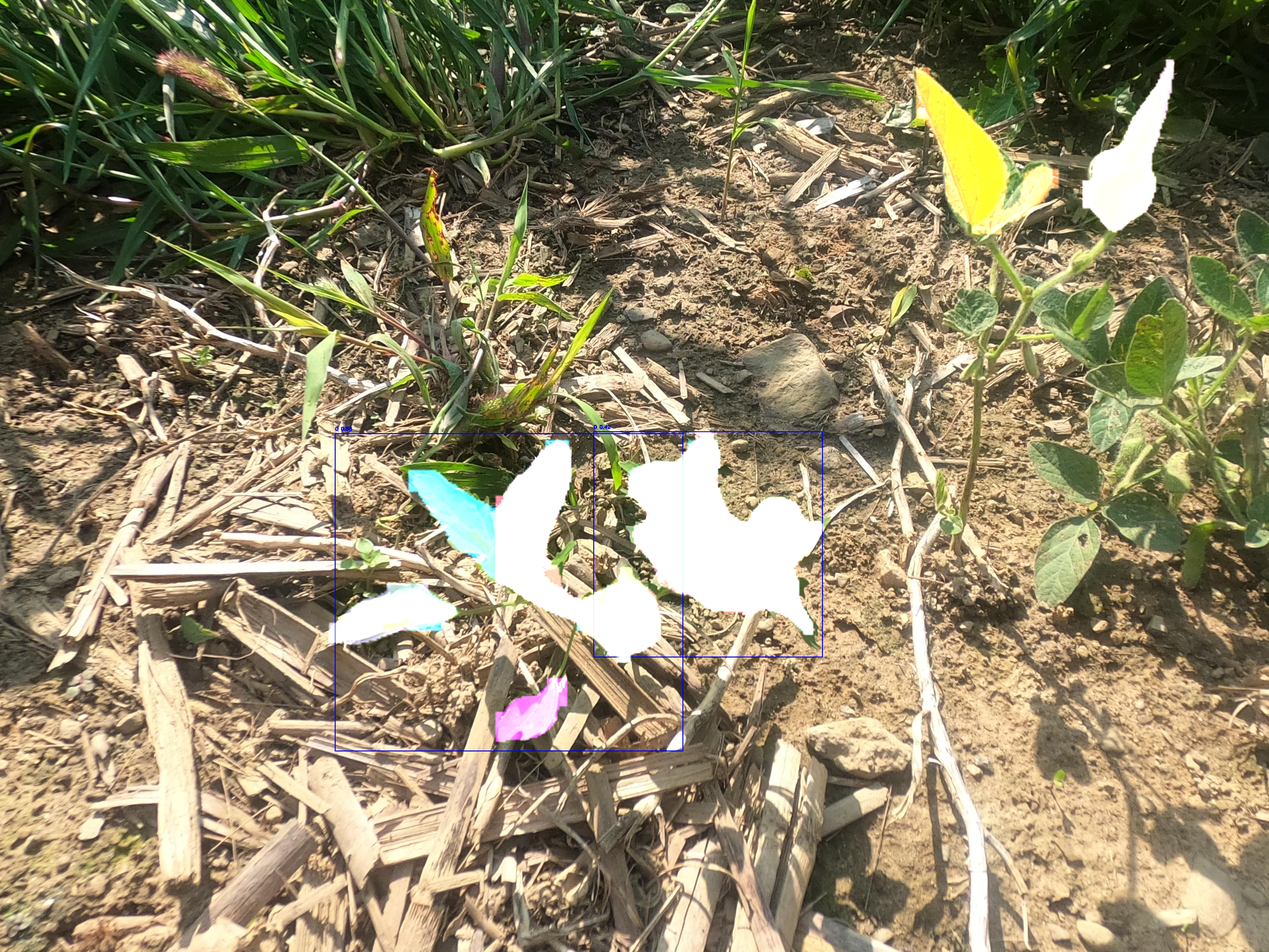
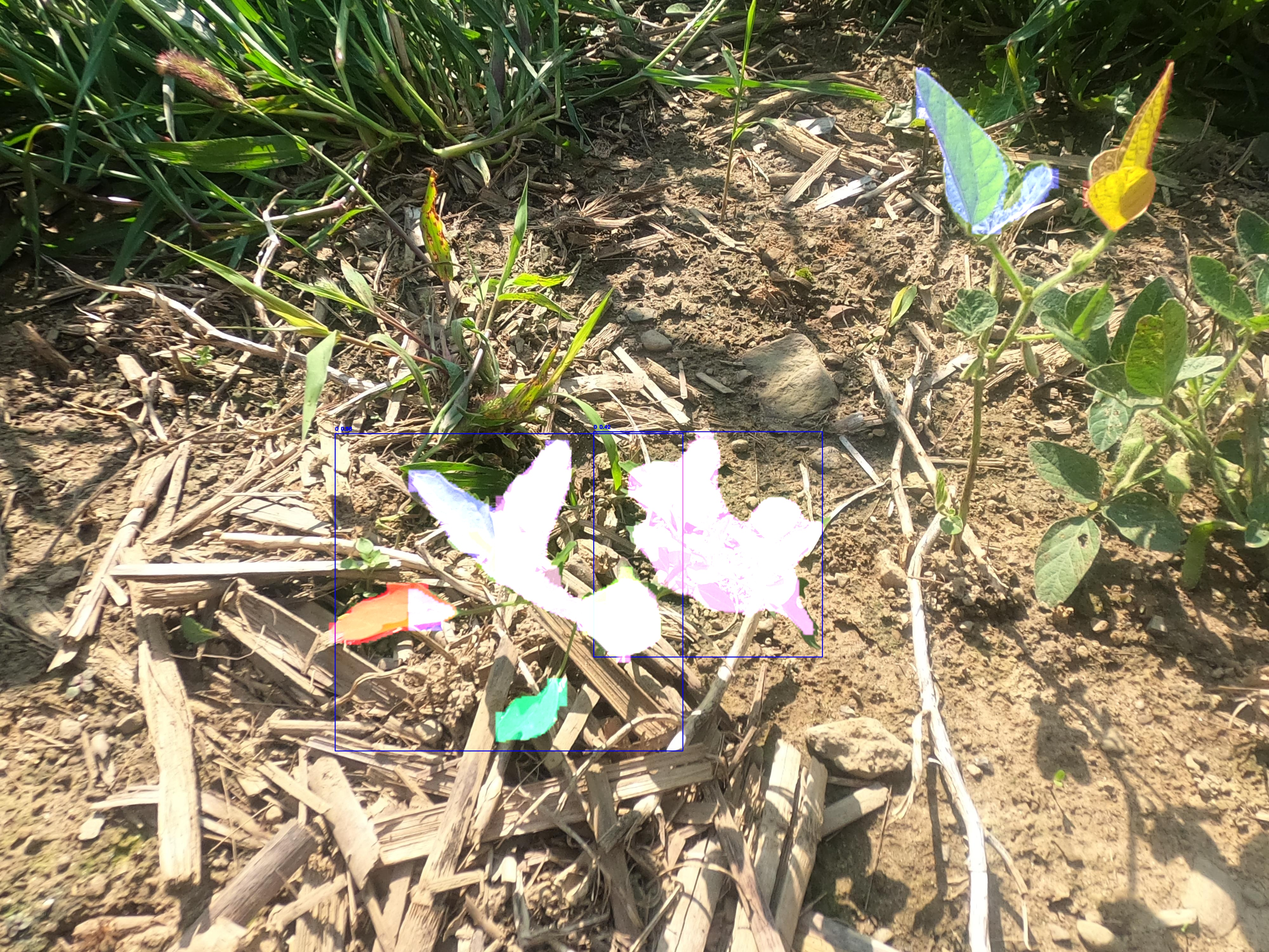
fix: fit canvas

diff --git a/client-gui/src/app/_components/canvas/utils.tsx b/client-gui/src/app/_components/canvas/utils.tsx
@@ -46,16 +46,35 @@ export function zoomLayer(layer: Konva.Layer, scaleBy: number) {
   layer.batchDraw();
 }
 
-//set the scale and position of the stage and layers to original; 
-export function setFitCanvas(stage: Konva.Stage | null, origScale: number) {
-  if (!stage) {
-    return; 
-  }
- 
-  stage.scale({x: origScale, y: origScale}); //stage
-    // Set scale for all layers in the stage
-  stage.getLayers().forEach(layer => {
-    layer.scale({ x: origScale, y: origScale });
-    layer.batchDraw();
+export function setFitCanvas(
+  stage: Konva.Stage | null,
+  layers: (Konva.Layer | null)[],
+  imageLayer: Konva.Layer | null,
+  origScale: number
+) {
+  if (!stage) return;
+
+  // 1. Reset stage
+  stage.scale({ x: 1, y: 1 });
+  stage.position({ x: 0, y: 0 });
+
+  // 2. Reset all layers
+  layers.forEach(layer => {
+    if (layer) {
+      layer.scale({ x: 1, y: 1 });
+      layer.position({ x: 0, y: 0 });
+      layer.batchDraw();
+    }
   });
+
+  // 3. Fit base image layer (scale image to fit canvas)
+  if (imageLayer && imageLayer.children.length > 0 ) {
+    const img = imageLayer.children[0];
+    
+    img.scale({ x: origScale, y: origScale });
+    img.position({ x: 0, y: 0 });
+    imageLayer.batchDraw();
+  }
+
+  stage.batchDraw();
 }

diff --git a/client-gui/src/app/_components/canvas/BaseImage.tsx b/client-gui/src/app/_components/canvas/BaseImage.tsx
@@ -27,8 +27,8 @@ const BaseImage = ({ layer }: { layer: Konva.Layer }) => {
     imageObj.onload = () => {
       const konvaImage = new Konva.Image({ 
         image: imageObj, 
-        x: 0,      // place image 100px from left of parent
-        y: 0,      // place image 150px from top of parent 
+        x: 0, 
+        y: 0,      
     });
     
     console.log(imageObj.width)
@@ -38,10 +38,10 @@ const BaseImage = ({ layer }: { layer: Konva.Layer }) => {
     //fit in, determine the original scale; 
       const scale = Math.min(width / imageObj.width, height / imageObj.height);
       console.log(scale)
-      setScale(scale);
+      setScale(scale); 
       setOrigScale(scale); 
       setImageSize({ width: imageObj.width, height: imageObj.height });
-      konvaImage.scale({ x: scale, y: scale });
+      layer.scale({ x: scale, y: scale });
       layer.add(konvaImage);
       layer.batchDraw();
     };

diff --git a/client-gui/src/app/_components/canvas/wrap.tsx b/client-gui/src/app/_components/canvas/wrap.tsx
@@ -208,7 +208,12 @@ const Wrap =  () => {
             </Button>
           </div>
           <div>
-            <Button onClick={() => setFitCanvas(stageRef.current, origScale)}>
+            <Button onClick={() => setFitCanvas(
+              stageRef.current,
+              [imageLayerRef.current, regionLayerRef.current, borderLayerRef.current],
+              imageLayerRef.current,
+              origScale,
+            )}> 
               Fit Canvas
             </Button>
           </div>
